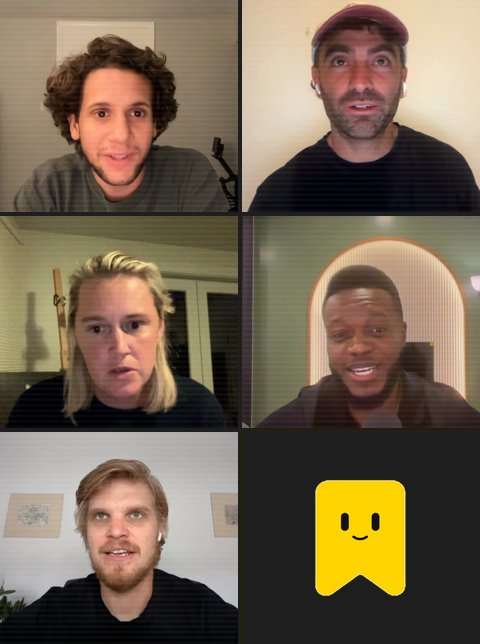
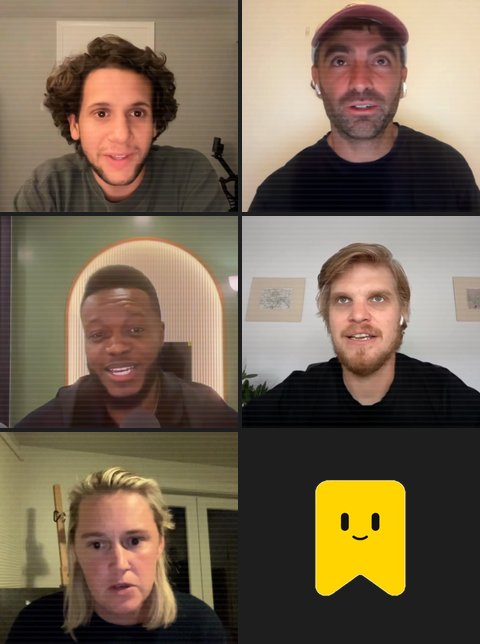
Fix the More interviews links and show one line per platform
Claude-Session: https://claude.ai/code/session_01FvAFEW2ysDiJhAXQF72Xmd

diff --git a/src/content/site.ts b/src/content/site.ts
@@ -138,6 +138,8 @@ export type StoryBeat = {
   posts?: { instagram?: string; linkedin?: string; x?: string }
   // Labelled links laid out in rows of two, shown in place of `posts` and `link`.
   linkRows?: { label: string; href: string; icon?: 'instagram' | 'linkedin' | 'x' }[][]
+  // One line of links per platform, the icon shown once at the start; shown in place of `posts` and `link`.
+  linkLines?: { icon: 'instagram' | 'linkedin' | 'x'; links: { label: string; href: string }[] }[]
   update?: string
   highlight?: boolean
 }
@@ -317,23 +319,27 @@ export const story: { chapter: string; days: string; title: string; summary: str
       {
         tag: 'Days 35–42',
         title: 'More interviews',
-        text: 'Five more conversations kept the feedback loop going: an app developer and founders in sales, go-to-market, product and finance.',
+        text: 'Five more conversations kept the feedback loop going: an app developer and founders in sales, product, finance and marketing.',
         image: '/story/more-interviews.jpg',
-        linkRows: [
-          [
-            { label: 'AI & App Developer', href: 'https://lnkd.in/p/gvdw6ir7', icon: 'linkedin' },
-            { label: 'Before launch', href: instagramPost('DdokB9Apem3'), icon: 'instagram' },
-          ],
-          [{ label: 'Founder & Sales', href: 'https://lnkd.in/p/gXfc6USf', icon: 'linkedin' }],
-          [
-            { label: 'Founder & GTM', href: 'https://lnkd.in/p/gXfc6USf', icon: 'linkedin' },
-            { label: 'Launch day', href: reels[42].href, icon: 'instagram' },
-          ],
-          [
-            { label: 'Founder & Product Manager', href: 'https://lnkd.in/p/gXfc6USf', icon: 'linkedin' },
-            { label: 'Onboarding', href: reels[39].href, icon: 'instagram' },
-          ],
-          [{ label: 'Founder & CFO', href: 'https://lnkd.in/p/gXfc6USf', icon: 'linkedin' }],
+        linkLines: [
+          {
+            icon: 'linkedin',
+            links: [
+              { label: 'EP 04', href: 'https://lnkd.in/p/gvdw6ir7' },
+              { label: 'EP 05', href: 'https://lnkd.in/p/gMQCQsFx' },
+              { label: 'EP 06', href: 'https://lnkd.in/p/gPNbkE3S' },
+              { label: 'EP 07', href: 'https://lnkd.in/p/g6RE8nb7' },
+              { label: 'EP 08', href: 'https://lnkd.in/p/gdgwTb4t' },
+            ],
+          },
+          {
+            icon: 'instagram',
+            links: [
+              { label: 'Pre-launch', href: instagramPost('DdokB9Apem3') },
+              { label: 'Onboarding', href: reels[39].href },
+              { label: 'Launch day', href: reels[42].href },
+            ],
+          },
         ],
       },
       {

diff --git a/src/components/home/HomeSections.tsx b/src/components/home/HomeSections.tsx
@@ -223,7 +223,8 @@ function BeatThumb({ beat }: { beat: StoryBeat }) {
     beat.posts?.instagram ||
     beat.posts?.linkedin ||
     beat.posts?.x ||
-    beat.linkRows?.flat().find(({ href }) => !href.startsWith('#'))?.href
+    beat.linkRows?.flat().find(({ href }) => !href.startsWith('#'))?.href ||
+    beat.linkLines?.[0]?.links[0]?.href
   if (beat.image && imageHref) {
     return (
       <a href={imageHref} target="_blank" rel="noreferrer" className={`${thumbFrame} group`} aria-label={`See the ${beat.tag} post`}>
@@ -267,7 +268,21 @@ function StoryBeatCard({ beat, wide }: { beat: StoryBeat; wide: boolean }) {
             {beat.update}
           </p>
         )}
-        {beat.linkRows ? (
+        {beat.linkLines ? (
+          <div className="mt-auto flex flex-col gap-1.5 pt-3 text-[0.85rem]">
+            {beat.linkLines.map(({ icon, links }) => (
+              <div key={icon} className="flex flex-wrap items-center gap-x-3 gap-y-1">
+                <img src={socials[icon].logo} alt={socials[icon].label} width={16} height={16} className="size-4 rounded-[4px]" />
+                {links.map(({ label, href }) => (
+                  <ExternalLink key={href} href={href} className="inline-flex items-center gap-1 font-bold no-underline hover:underline">
+                    {label}
+                    <ArrowUpRight className="size-3.5" aria-hidden="true" />
+                  </ExternalLink>
+                ))}
+              </div>
+            ))}
+          </div>
+        ) : beat.linkRows ? (
           <div className="mt-auto grid w-fit gap-x-6 gap-y-1.5 pt-3 text-[0.85rem] sm:grid-cols-[repeat(2,auto)]">
             {/* A one-link row gets an empty second cell so the next row starts in the first column. */}
             {beat.linkRows.flatMap((row) => (row.length === 1 ? [row[0], null] : row)).map((item, index) => {
